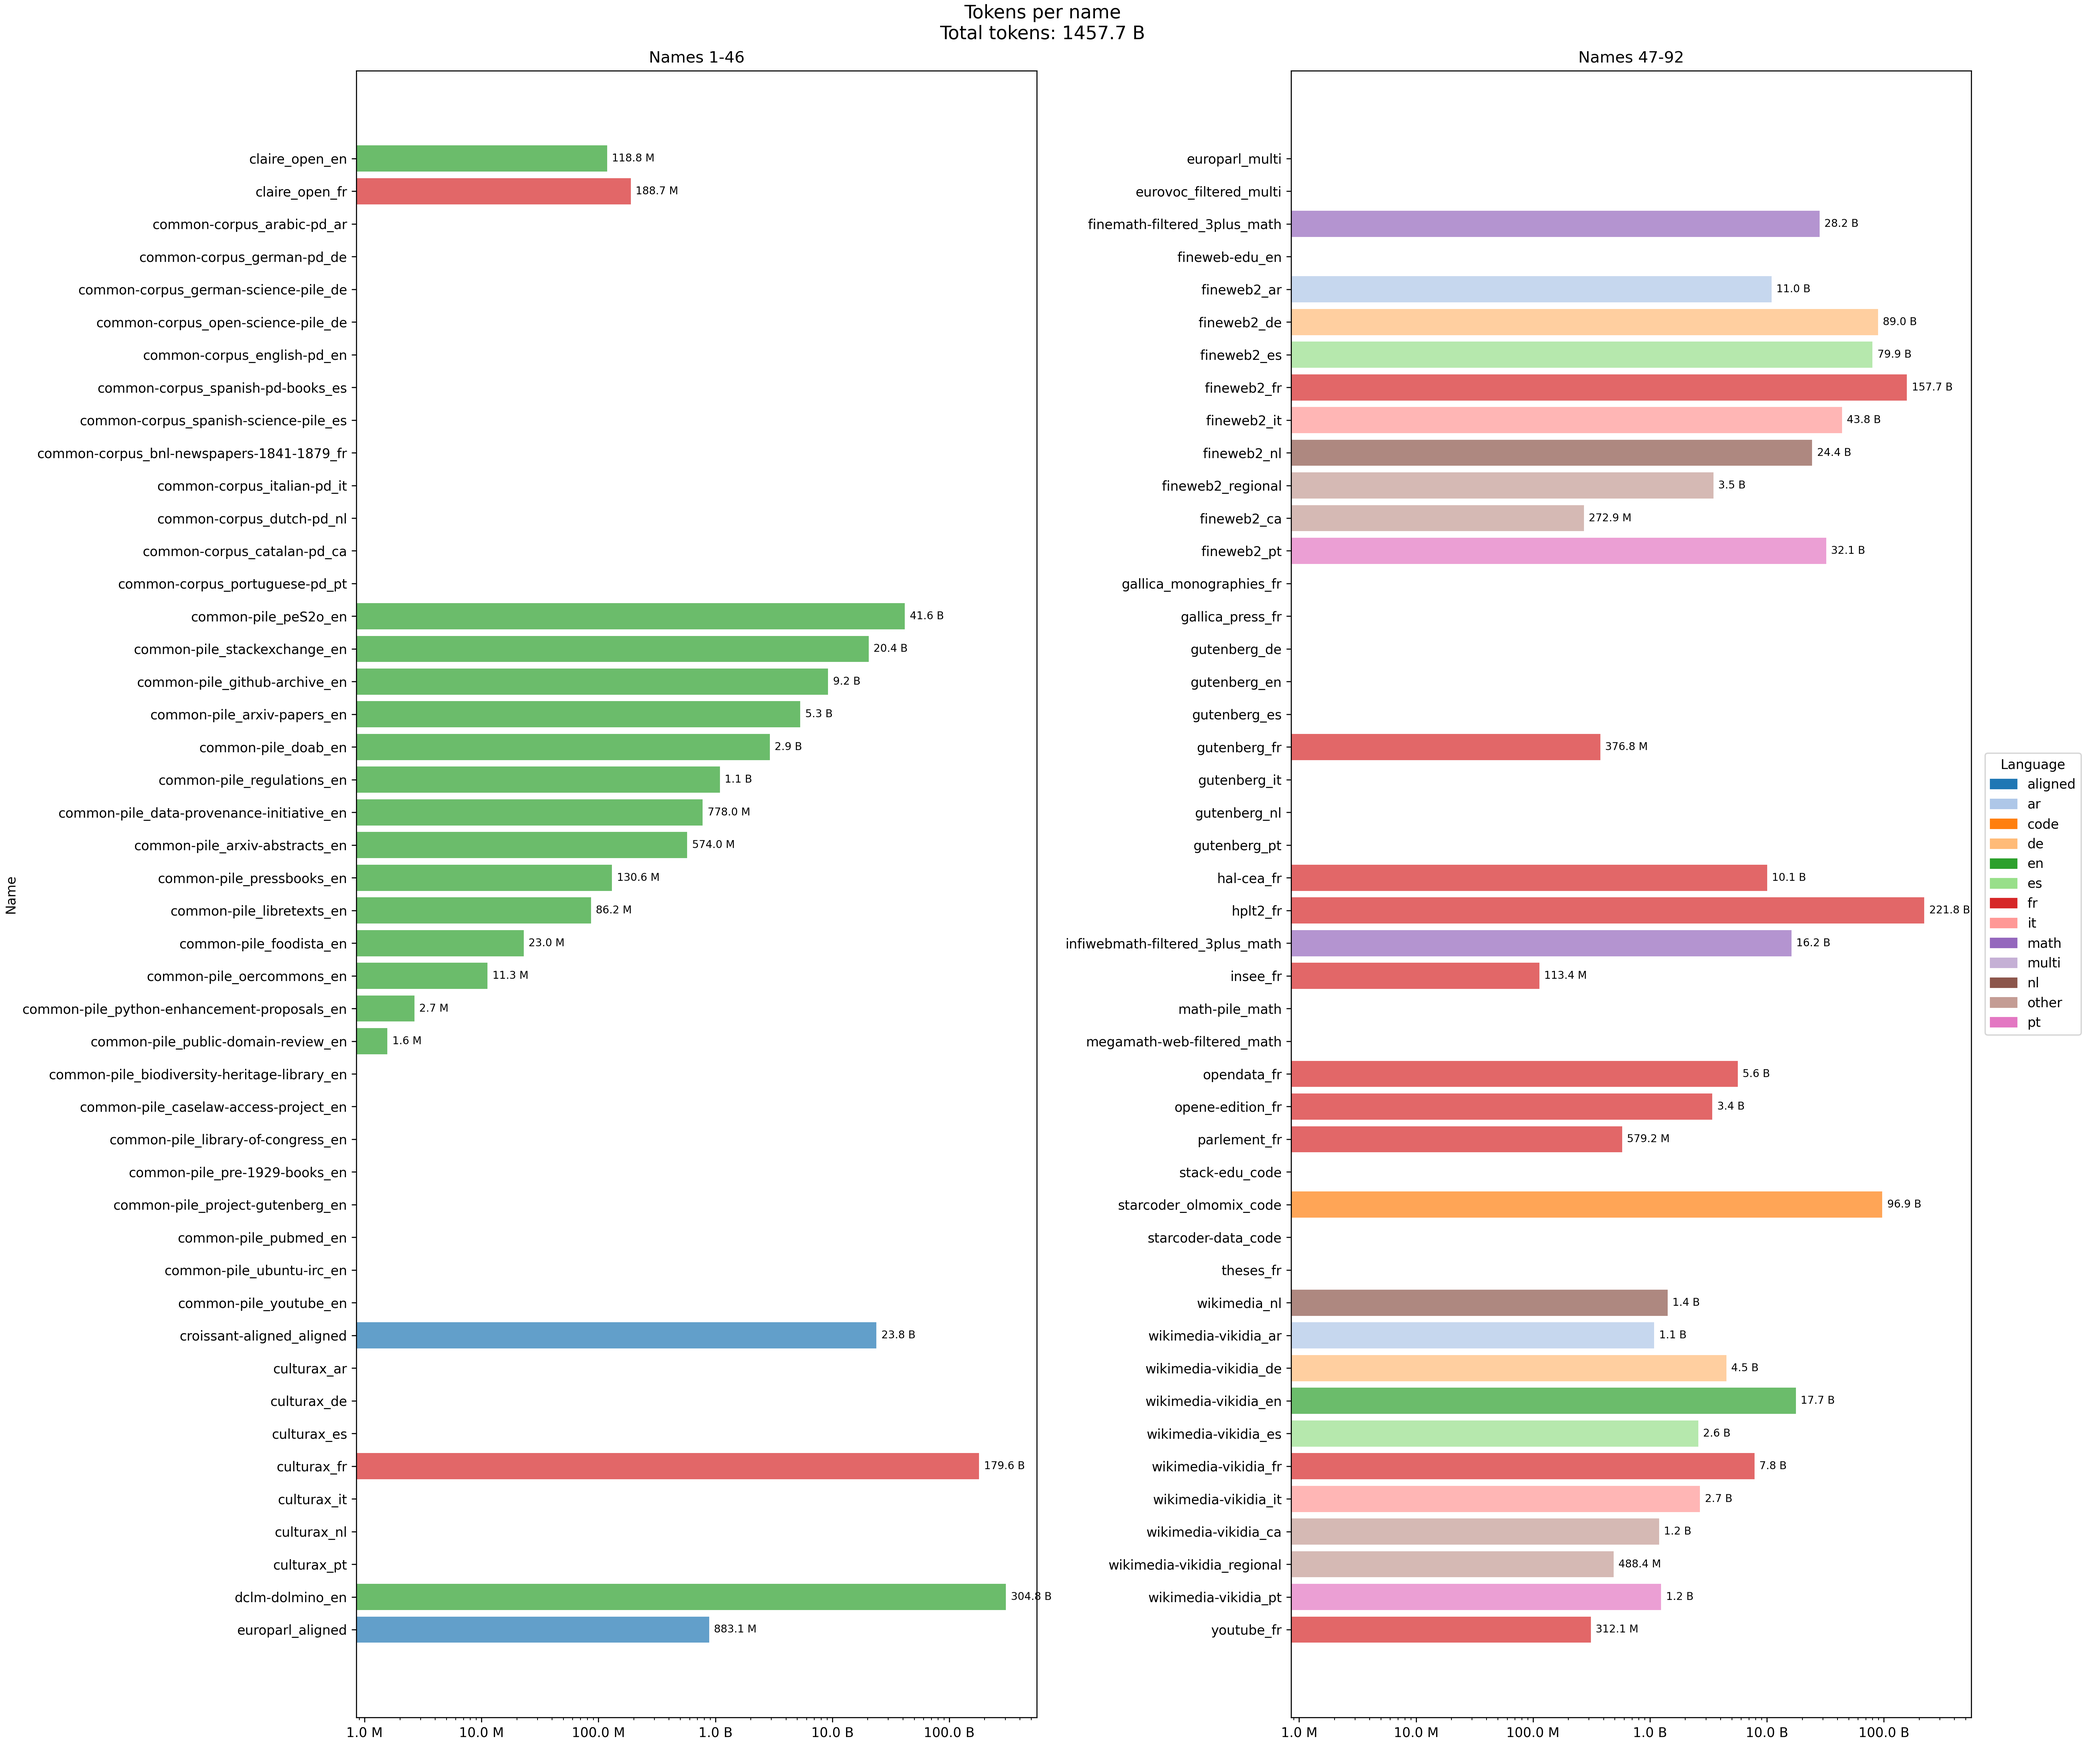
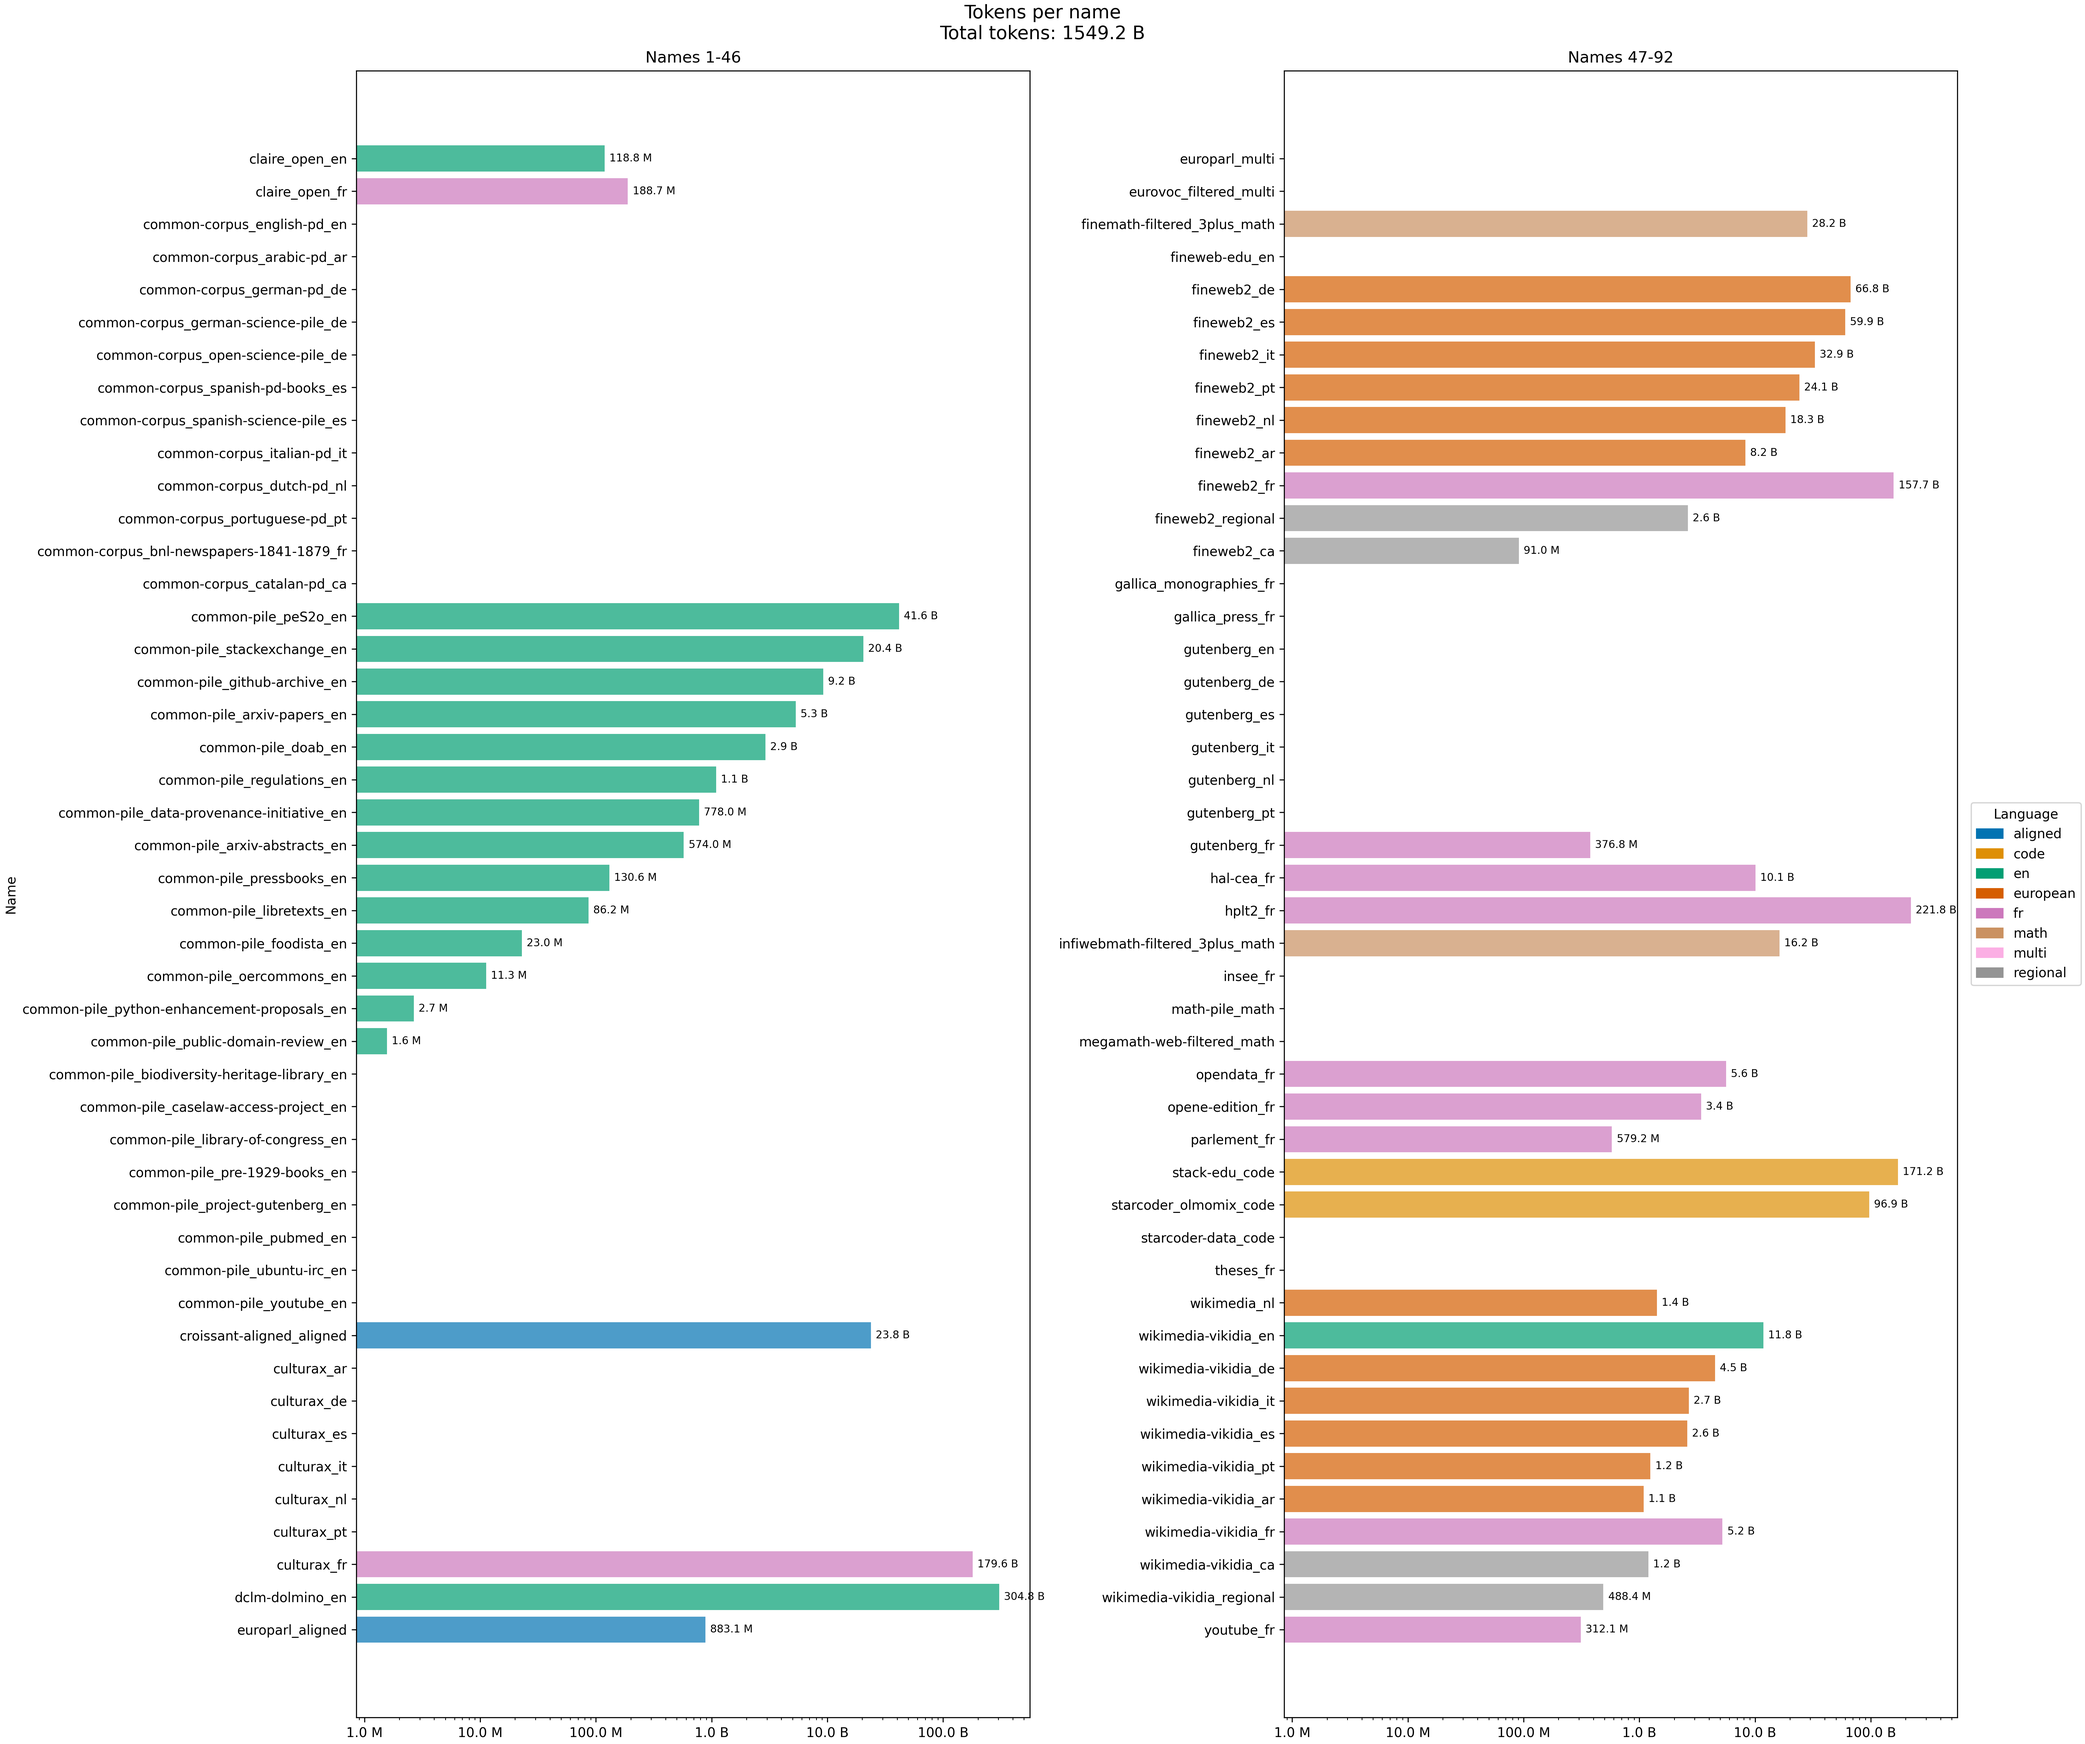
group european and regional languages

diff --git a/data/tokenization/run/visualize_token_stats.py b/data/tokenization/run/visualize_token_stats.py
@@ -76,7 +76,7 @@ def plot_horizontal_bar(
 
     elif color_column in ["dataset", "group", "subset", "language"]:
         unique_categories = df[color_column].astype("category").cat.categories
-        palette = sb.color_palette("tab20", len(unique_categories))
+        palette = sb.color_palette("colorblind", len(unique_categories))
 
         color_map = dict(zip(unique_categories, palette))
         colors = df[color_column].map(color_map)
@@ -229,6 +229,18 @@ def create_datamix_file(df, token_dir, output_dir):
         json.dump(out, f, indent=4)
 
 
+def map_language(x):
+    european = ["ar", "nl", "de", "pt", "es", "it"]
+    if x in ["code", "math", "fr", "en", "aligned", "multi"]:
+        return x
+    elif x in european:
+        return "european"
+    elif x in ["ca", "regional"]:
+        return "regional"
+    else:
+        raise ValueError(f"Unknown language: {x}")
+
+
 if __name__ == "__main__":
     parser = argparse.ArgumentParser(
         description="Plot token treemaps by language and dataset."
@@ -278,25 +290,9 @@ if __name__ == "__main__":
         else row["dataset"],
         axis=1,
     )
-    df["language"] = df["language"].apply(
-        lambda x: x
-        if x
-        in [
-            "code",
-            "math",
-            "ar",
-            "fr",
-            "en",
-            "nl",
-            "de",
-            "pt",
-            "es",
-            "it",
-            "aligned",
-            "multi",
-        ]
-        else "other"
-    )
+
+    # Apply the mapping
+    df["language"] = df["language"].apply(map_language)
 
     # Groupby
     language_df = (
@@ -323,12 +319,15 @@ if __name__ == "__main__":
 
     # Horizontal bar
     plot_horizontal_bar(
-        language_df, "language", os.path.join(output_dir, "bar_language.png")
+        language_df,
+        "language",
+        os.path.join(output_dir, "bar_language.png"),
+        color_column="language",
     )
-    plot_horizontal_bar(
-        dataset_df, "dataset", os.path.join(output_dir, "bar_datasets.png")
-    )
-    plot_horizontal_bar(group_df, "group", os.path.join(output_dir, "bar_group.png"))
+    # plot_horizontal_bar(
+    #     dataset_df, "dataset", os.path.join(output_dir, "bar_datasets.png")
+    # )
+    # plot_horizontal_bar(group_df, "group", os.path.join(output_dir, "bar_group.png"))
     plot_horizontal_bar(
         df,
         "name",
